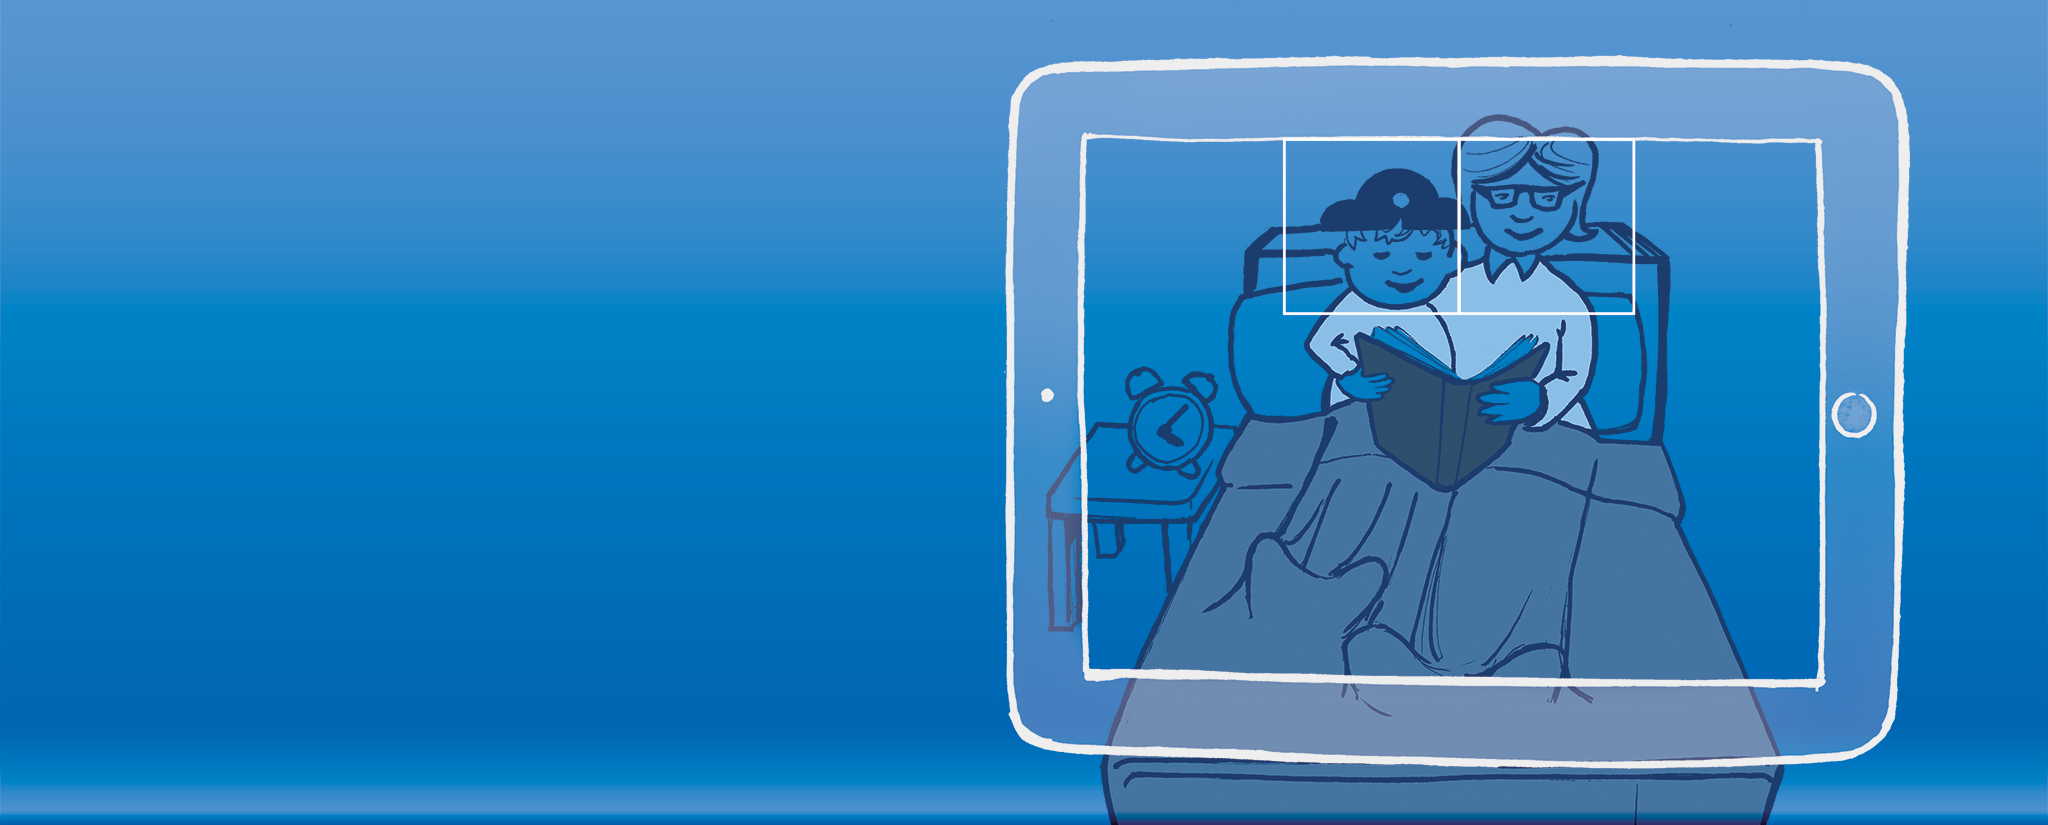
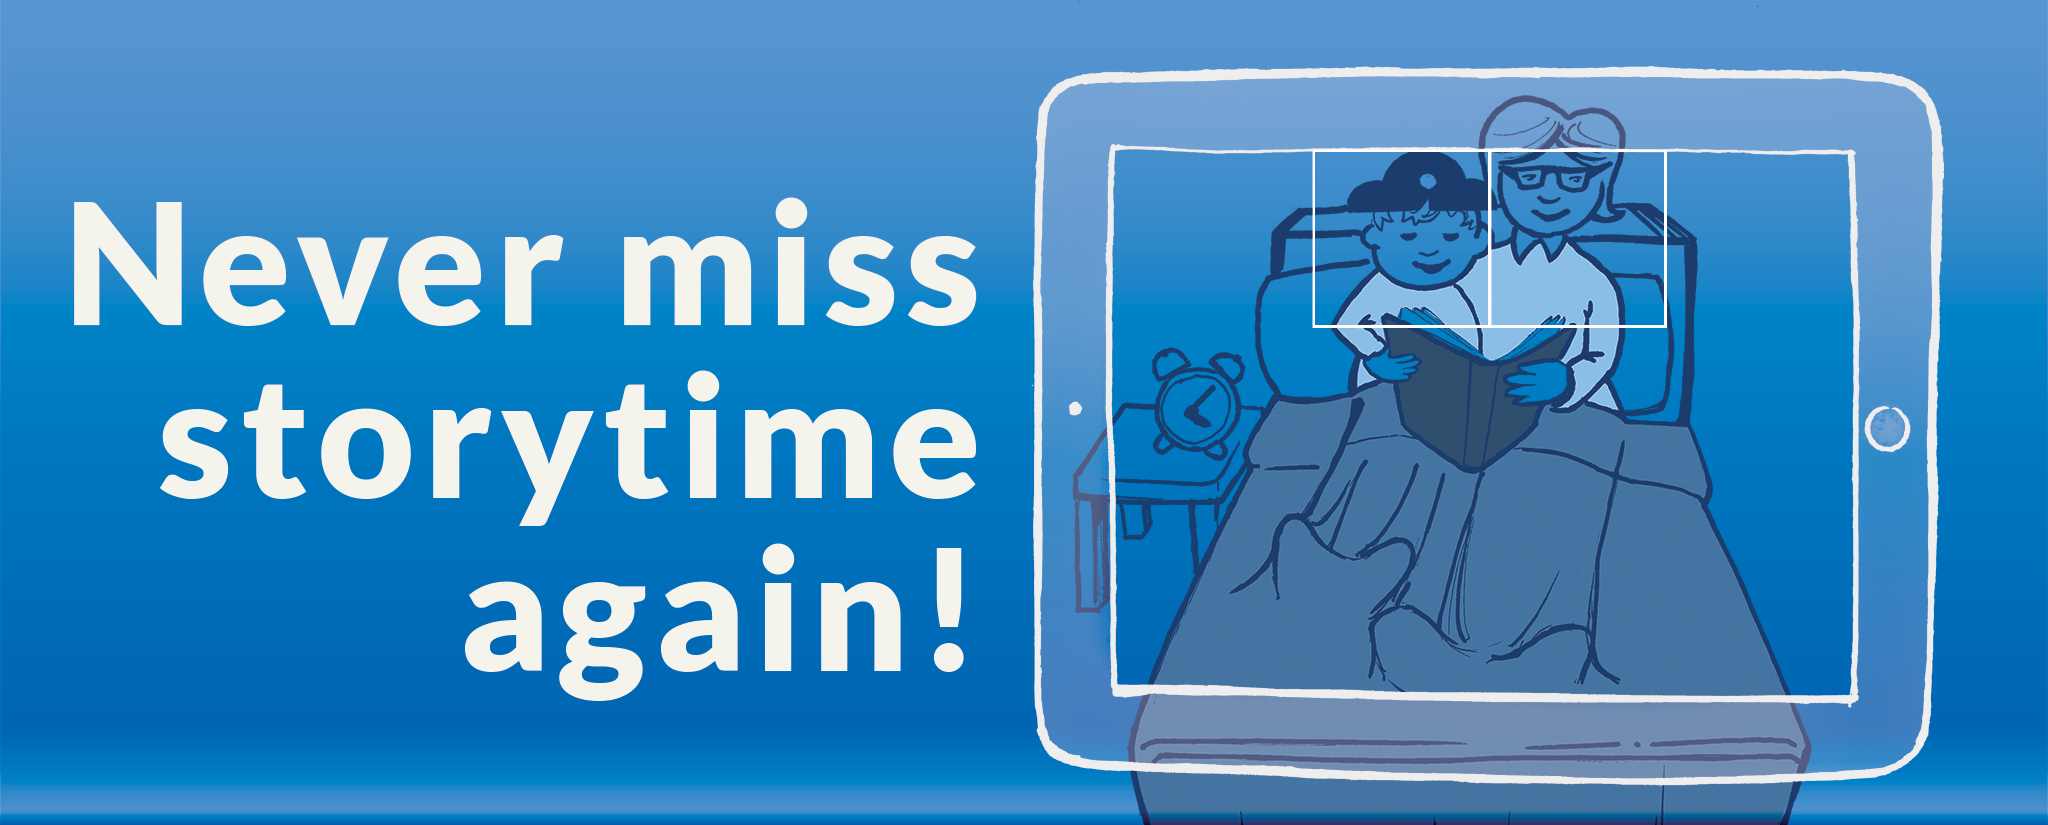
homepage tweaks - updated hero images with text baked into asset, centered features section, reordered features

Changed region(s): [[0.0312, 0.0606, 0.9688, 1.0]]

diff --git a/public/stylesheets/scaffold.css b/public/stylesheets/scaffold.css
@@ -1360,7 +1360,7 @@ ul.nav-list li {
 	line-height: 48px;
 	color: #fff;
 	position: absolute;
-	left: 17%;
+	left: 20%;
 	top: 30px;
 	font-family: "Lato", sans-serif;
 }
@@ -1379,8 +1379,10 @@ ul.nav-list li {
 }
 
 #block-how-it-works {
-	padding: 0px 50px;
+	padding: 30px 50px;
 	position: relative;	
+	margin: 0 auto;
+	width: 850px;
 }
 
 #block-how-it-works h1 {
@@ -1403,10 +1405,6 @@ ul.nav-list li {
 	height: 600px;
 }
 
-#block-how-it-works .features-icons-container {
-	padding-right: 50px;
-}
-
 #block-how-it-works .features-icons-container div {
 	margin: 0px 0px 40px 0px;
 	text-align:	center;
@@ -1424,7 +1422,7 @@ ul.nav-list li {
 #block-how-it-works .features-image-container div {
 	position: absolute;
 	top: 0;
-	left: 130;
+	left: 110px;
 }
 
 #block-how-it-works .features-image-container img {
@@ -1623,9 +1621,9 @@ input::-webkit-input-placeholder {
 .videochat-link p a.active { background-position: 0 -710px; width: 37px; height: 37px; } 
 .videochat-link p a { background-position: 0 -757px; width: 37px; height: 37px; }
 
-.book-link p a:active { background-position: 0 0; width: 48px; height: 37px; } 
-.book-link p a.active { background-position: 0 0; width: 48px; height: 37px; } 
-.book-link p a { background-position: 0 -47px; width: 48px; height: 37px; } 
+.playspace-link p a:active { background-position: 0 0; width: 48px; height: 37px; } 
+.playspace-link p a.active { background-position: 0 0; width: 48px; height: 37px; } 
+.playspace-link p a { background-position: 0 -47px; width: 48px; height: 37px; } 
 
 .bookshelf-link p a:active { background-position: 0 -94px; width: 72px; height: 37px; } 
 .bookshelf-link p a.active { background-position: 0 -94px; width: 72px; height: 37px; } 
